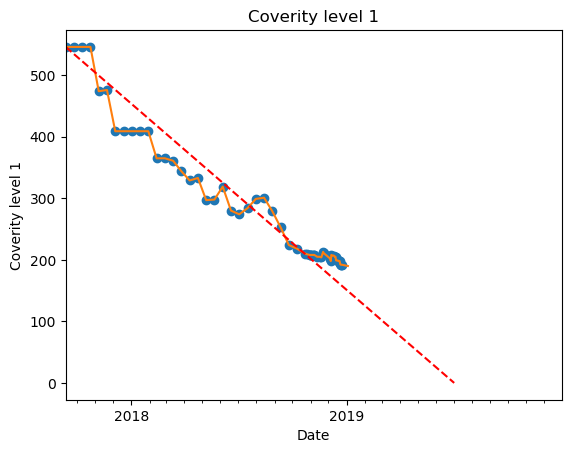
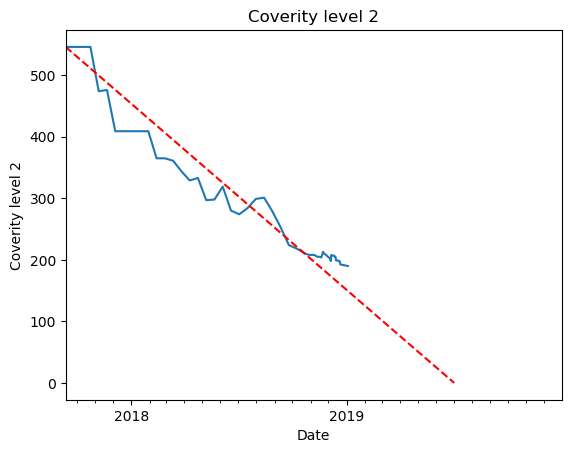
Show compiler warning quality indicator

Changed region(s): [[0.2661, 0.3091, 0.6209, 0.6181], [0.1183, 0.0927, 0.2661, 0.3091]]

diff --git a/QualityImprovementMonitor/qualityMetricsHistory.py b/QualityImprovementMonitor/qualityMetricsHistory.py
@@ -11,7 +11,7 @@ class QualityMetricsHistory:
     def __init__(self, unit_collection):
         self.unit_collection = unit_collection
         self.filename = r'QualityMetricsHistory.xlsx'
-        self.worksheet_names = ["Wrong warning level", "Treat warning not as error", "Suppressed warnings", "Actual warnings", "Total warnings", "Coverity level 1", "Coverity level 2", "Security level 1", "Security level 2"]
+        self.worksheet_names = ["Wrong warning level", "Treat warning not as error", "Suppressed warnings", "Actual warnings", "Coverity level 1", "Coverity level 2", "Security level 1", "Security level 2"]
 
         if not os.path.isfile(self.filename):
             self._create_workbook()
@@ -31,36 +31,14 @@ class QualityMetricsHistory:
         self._fill_worksheet_treat_warnings_not_as_errors(wb.worksheets[1], time_stamp)
         self._fill_worksheet_suppressed_warnings(wb.worksheets[2], time_stamp)
         self._fill_worksheet_actual_warnings(wb.worksheets[3], time_stamp)
-        self._fill_worksheet_total_warnings(wb.worksheets[4], time_stamp)
-        self._fill_worksheet_coverity_warnings(wb.worksheets[5], time_stamp, 1)
-        self._fill_worksheet_coverity_warnings(wb.worksheets[6], time_stamp, 2)
-        self._fill_worksheet_security_warnings(wb.worksheets[7], time_stamp, 1)
-        self._fill_worksheet_security_warnings(wb.worksheets[8], time_stamp, 2)
+        self._fill_worksheet_coverity_warnings(wb.worksheets[4], time_stamp, 1)
+        self._fill_worksheet_coverity_warnings(wb.worksheets[5], time_stamp, 2)
+        self._fill_worksheet_security_warnings(wb.worksheets[6], time_stamp, 1)
+        self._fill_worksheet_security_warnings(wb.worksheets[7], time_stamp, 2)
 
         wb.save(self.filename)
 
         print("end update history")
-
-    def get_current_suppressed_warning_count(self):
-        suppressed_warnings_for_all_units = 0
-
-        for unit in self.unit_collection.units:
-            suppressed_warnings_for_all_units += unit.get_latest_build_suppressed_warning_count()
-        return suppressed_warnings_for_all_units
-
-    def get_current_actual_warnings_count(self):
-        actual_warnings_for_all_units = 0
-
-        for unit in self.unit_collection.units:
-            actual_warnings_for_all_units += unit.get_latest_build_actual_warning_count()
-        return actual_warnings_for_all_units
-
-    def get_current_total_warnings_count(self):
-        total_warnings_for_all_units = 0
-
-        for unit in self.unit_collection.units:
-            total_warnings_for_all_units += unit.get_latest_build_total_warning_count()
-        return total_warnings_for_all_units
 
     def get_values_wrong_warning_level(self):
         wb = load_workbook(self.filename)
@@ -70,6 +48,10 @@ class QualityMetricsHistory:
         wb = load_workbook(self.filename)
         return self._get_deltas(wb.worksheets[0])
 
+    def get_history_wrong_warning_level(self):
+        wb = load_workbook(self.filename)
+        return self._get_history(wb.worksheets[0])
+
     def get_values_treat_warnings_not_as_errors(self):
         wb = load_workbook(self.filename)
         return self._get_values(wb.worksheets[1])
@@ -77,6 +59,10 @@ class QualityMetricsHistory:
     def get_deltas_treat_warnings_not_as_errors(self):
         wb = load_workbook(self.filename)
         return self._get_deltas(wb.worksheets[1])
+
+    def get_history_treat_warnings_not_as_errors(self):
+        wb = load_workbook(self.filename)
+        return self._get_history(wb.worksheets[1])
 
     def get_values_suppressed_warnings(self):
         wb = load_workbook(self.filename)
@@ -86,6 +72,10 @@ class QualityMetricsHistory:
         wb = load_workbook(self.filename)
         return self._get_deltas(wb.worksheets[2])
 
+    def get_history_suppressed_warnings(self):
+        wb = load_workbook(self.filename)
+        return self._get_history(wb.worksheets[2])
+
     def get_values_actual_warnings(self):
         wb = load_workbook(self.filename)
         return self._get_values(wb.worksheets[3])
@@ -94,54 +84,81 @@ class QualityMetricsHistory:
         wb = load_workbook(self.filename)
         return self._get_deltas(wb.worksheets[3])
 
-    def get_history_total_warnings(self):
+    def get_history_actual_warnings(self):
         wb = load_workbook(self.filename)
-        return self._get_history(wb.worksheets[4])
+        return self._get_history(wb.worksheets[3])
+
+    def get_history_warning_suppression_indicator(self):
+        totals = {}
+
+        history_wrong_warning_level = self.get_history_wrong_warning_level()
+        history_treat_warnings_not_as_errors = self.get_history_treat_warnings_not_as_errors()
+        history_suppressed_warnings = self.get_history_suppressed_warnings()
+        history_actual_warnings = self.get_history_actual_warnings()
+
+        weight_treat_warnings_not_as_errors = 0
+        weight_wrong_warning_levels = 0
+        weight_suppressed_warnings = 1
+        weight_actual_warnings = 1
+
+        for key, value in history_wrong_warning_level.items():
+            total = (history_treat_warnings_not_as_errors[key] * weight_treat_warnings_not_as_errors) + \
+                    (history_wrong_warning_level[key]) * weight_wrong_warning_levels +\
+                    (history_suppressed_warnings[key] * weight_suppressed_warnings) + \
+                    (history_actual_warnings[key] * weight_actual_warnings)
+
+            totals[key] = total
+
+        return totals
 
     def get_values_coverity_level_1(self):
         wb = load_workbook(self.filename)
-        return self._get_values(wb.worksheets[5])
+        return self._get_values(wb.worksheets[4])
 
     def get_deltas_coverity_level_1(self):
         wb = load_workbook(self.filename)
-        return self._get_deltas(wb.worksheets[5])
+        return self._get_deltas(wb.worksheets[4])
 
     def get_history_coverity_level_1(self):
         wb = load_workbook(self.filename)
-        return self._get_history(wb.worksheets[5])
+        return self._get_history(wb.worksheets[4])
 
     def get_values_coverity_level_2(self):
         wb = load_workbook(self.filename)
-        return self._get_values(wb.worksheets[6])
+        return self._get_values(wb.worksheets[5])
 
     def get_deltas_coverity_level_2(self):
         wb = load_workbook(self.filename)
-        return self._get_deltas(wb.worksheets[6])
+        return self._get_deltas(wb.worksheets[5])
 
     def get_values_security_level_1(self):
         wb = load_workbook(self.filename)
-        return self._get_values(wb.worksheets[7])
+        return self._get_values(wb.worksheets[6])
 
     def get_deltas_security_level_1(self):
         wb = load_workbook(self.filename)
-        return self._get_deltas(wb.worksheets[7])
+        return self._get_deltas(wb.worksheets[6])
 
     def get_history_security_level_1(self):
         wb = load_workbook(self.filename)
-        return self._get_history(wb.worksheets[7])
+        return self._get_history(wb.worksheets[6])
 
     def get_values_security_level_2(self):
         wb = load_workbook(self.filename)
-        return self._get_values(wb.worksheets[8])
+        return self._get_values(wb.worksheets[7])
 
     def get_deltas_security_level_2(self):
         wb = load_workbook(self.filename)
-        return self._get_deltas(wb.worksheets[8])
+        return self._get_deltas(wb.worksheets[7])
+
+    def get_history_security_level_2(self):
+        wb = load_workbook(self.filename)
+        return self._get_history(wb.worksheets[7])
 
     def _create_workbook(self):
         wb = Workbook()
 
-        for index in range(9):
+        for index in range(8):
             if index != 0:
                 wb.create_sheet()
 
@@ -186,14 +203,6 @@ class QualityMetricsHistory:
         count_for_all_units = []
         for unit in self.unit_collection.units:
             count_for_unit = unit.get_latest_build_actual_warning_count()
-            count_for_all_units.append(count_for_unit)
-        self._fill_worksheet(worksheet, time_stamp, count_for_all_units)
-
-    def _fill_worksheet_total_warnings(self, worksheet, time_stamp):
-        count_for_all_units = []
-        for unit in self.unit_collection.units:
-            count_for_unit = unit.get_latest_build_suppressed_warning_count() + \
-                                  unit.get_latest_build_actual_warning_count()
             count_for_all_units.append(count_for_unit)
         self._fill_worksheet(worksheet, time_stamp, count_for_all_units)
 
@@ -246,9 +255,9 @@ class QualityMetricsHistory:
         current_row = worksheet.max_row
 
         for index in range(len(self.unit_collection.units)+1):
-            current_column = index + 2
-            actual_value = worksheet.cell(current_row, current_column).value
             if current_row > 2:
+                current_column = index + 2
+                actual_value = worksheet.cell(current_row, current_column).value
                 previous_value = worksheet.cell(current_row - 1, current_column).value
                 deltas.append(actual_value - previous_value)
             else:
@@ -260,8 +269,8 @@ class QualityMetricsHistory:
         date_column = 1
         totals_column = len(self.unit_collection.units) + 2
 
-        for current_row in range(2, worksheet.max_row):
-            date = worksheet.cell(current_row, date_column).value
-            total = worksheet.cell(current_row, totals_column).value
+        for row in range(2, worksheet.max_row):
+            date = worksheet.cell(row, date_column).value
+            total = worksheet.cell(row, totals_column).value
             totals[date] = total
         return totals

diff --git a/QualityImprovementMonitor/mainView.py b/QualityImprovementMonitor/mainView.py
@@ -4,7 +4,6 @@ from qualityMetricsHistory import *
 from unitCollection import *
 from unit import *
 from datetime import datetime
-import pandas as panda
 import matplotlib.pyplot as plt
 import matplotlib.dates as mdates
 import numpy as np
@@ -199,14 +198,14 @@ class MainView:
 
     def _update_warnings_burn_down_chart(self):
         min_value = 0
-        max_value = 8000
-        step = 500
+        max_value = 9000
+        step = 1000
         burn_down_show = False
         burn_down_begin_date = '1-Jan-2019'
         burn_down_begin_value = 6600
         burn_down_end_date = '31-Dec-2019'
         burn_down_end_value = 0
-        data = self.qualityMetricsHistory.get_history_total_warnings()
+        data = self.qualityMetricsHistory.get_history_warning_suppression_indicator()
 
         worksheet_name = self.qualityMetricsHistory.worksheet_names[4]
         self._generate_burn_down_chart(worksheet_name, min_value, max_value, step, burn_down_show, burn_down_begin_date, burn_down_begin_value, burn_down_end_date, burn_down_end_value, data, self.filename_warning_burndown_graph)
@@ -229,7 +228,7 @@ class MainView:
 
     def _update_security_burn_down_chart(self):
         min_value = 0
-        max_value = 1500
+        max_value = 2000
         step = 500
         burn_down_show = False
         burn_down_begin_date = '1-Jan-2019'
@@ -252,13 +251,7 @@ class MainView:
         max_x = datetime.strptime(self.chart_end_date, date_format)
         plt.xlim(min_x, max_x)
 
-        plt.plot_date(data.keys(), data.values())
-
-        # read excel and plot data
-        data_frame = panda.ExcelFile(self.qualityMetricsHistory.filename).parse(worksheet_name)
-        df = panda.DataFrame({'x': data_frame['Date'], 'Total': data_frame['Total']})
-        for column in df.drop('x', axis=1):
-            plt.plot(df['x'], df[column], label=column)
+        plt.plot_date(data.keys(), data.values(), "-")
 
         # plot burn down
         if burn_down_show:
